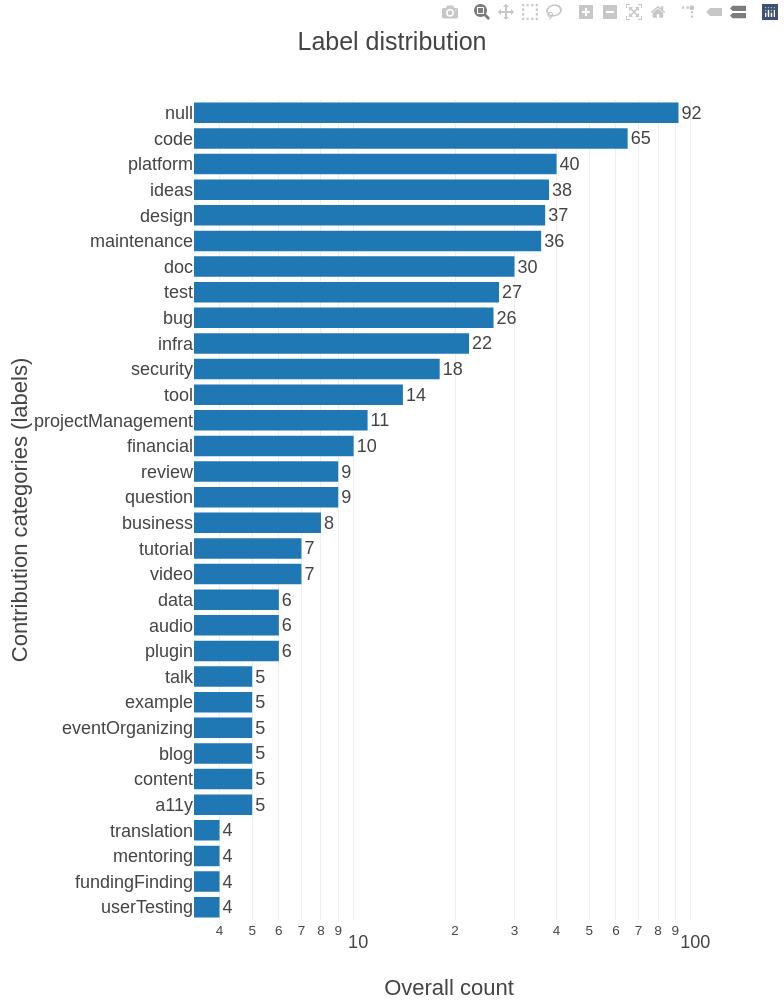
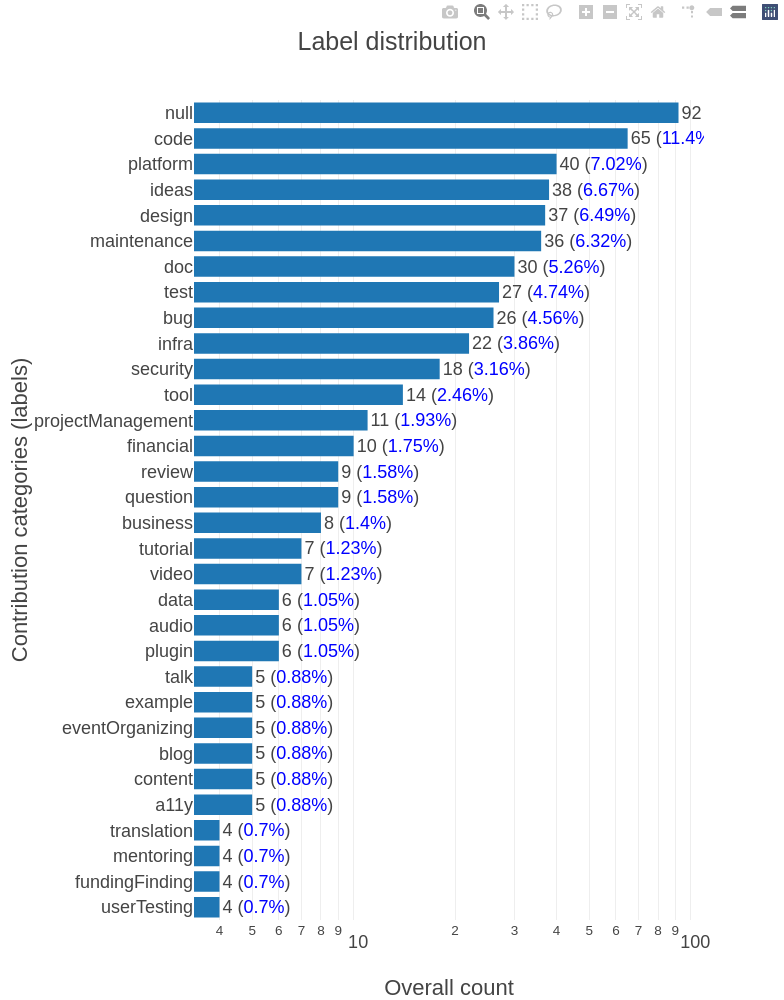
chore(public): more plots

Changed region(s): [[0.3061, 0.155, 0.8265, 0.93], [0.8265, 0.124, 0.8878, 0.155]]

diff --git a/public/plot.js b/public/plot.js
@@ -15,7 +15,9 @@ const labelDistributionPlot = data => {
     x: xVals,
     type: 'bar',
     orientation: 'h',
-    text: xVals.map(String),
+    text: xVals.map(
+      x => `${x} (<span style="color: #00f">${perc(x / data.length)}</span>)`,
+    ),
     textposition: 'outside',
     hoverinfo: 'none',
   }
@@ -42,6 +44,170 @@ const labelDistributionPlot = data => {
   }
 
   Plotly.newPlot('labelDist', vizData, layout, {scrollZoom: true})
+}
+
+const predictionDistributionPlot = data => {
+  const xVals = ['Correct', 'Incorrect']
+  const yVals = [data.correctPredictions, data.incorrectPredictions]
+  const partitionsPlot = {
+    x: xVals,
+    y: yVals,
+    type: 'bar',
+    text: yVals.map(
+      y => `${y} (<span style="color: #00f">${perc(y / data.total)}</span>)`,
+    ),
+    hoverinfo: 'none',
+    textposition: 'auto',
+    marker: {
+      color: 'rgb(158,202,225)',
+      opacity: 0.6,
+      line: {
+        color: 'rgb(8,48,107)',
+        width: 1.5,
+      },
+    },
+  }
+
+  const vizData = [partitionsPlot]
+  const layout = {
+    title: 'Model predictions',
+    autosize: true,
+    font: {
+      size: 18,
+    },
+    yaxis: {
+      title: 'Count',
+      automargin: true,
+    },
+    xaxis: {
+      title: 'Correctness',
+    },
+  }
+
+  Plotly.newPlot('predictions', vizData, layout, {scrollZoom: true})
+}
+
+const accuracyDistributionPlot = data => {
+  const orderedData = Object.entries(data.results).map(entry => [
+    entry[0],
+    entry[1].accuracy,
+  ])
+  orderedData.sort((a, b) => a[1] - b[1])
+  const xVals = orderedData.map(entry => entry[1])
+  const categoryDistPlot = {
+    y: orderedData.map(entry => entry[0]),
+    x: xVals,
+    type: 'bar',
+    orientation: 'h',
+    text: xVals.map(String),
+    textposition: 'outside',
+    hoverinfo: 'none',
+  }
+
+  const vizData = [categoryDistPlot]
+  const layout = {
+    title: 'Model accuracy distribution',
+    autosize: true,
+    font: {
+      size: 18,
+    },
+    height: 1000,
+    yaxis: {
+      title: 'Contribution categories (labels)',
+      automargin: true,
+    },
+    xaxis: {
+      title: 'Accuracy',
+      type: 'linear',
+      automargin: true,
+      tick0: 0,
+      dtick: 0.1,
+    },
+  }
+
+  Plotly.newPlot('accDist', vizData, layout, {scrollZoom: true})
+}
+
+const f1DistributionPlot = data => {
+  const orderedData = Object.entries(data.results).map(entry => [
+    entry[0],
+    entry[1].f1,
+  ])
+  orderedData.sort((a, b) => a[1] - b[1])
+  const xVals = orderedData.map(entry => entry[1])
+  const categoryDistPlot = {
+    y: orderedData.map(entry => entry[0]),
+    x: xVals,
+    type: 'bar',
+    orientation: 'h',
+    text: xVals.map(String),
+    textposition: 'outside',
+    hoverinfo: 'none',
+  }
+
+  const vizData = [categoryDistPlot]
+  const layout = {
+    title: 'Model F1 distribution',
+    autosize: true,
+    font: {
+      size: 18,
+    },
+    height: 1000,
+    yaxis: {
+      title: 'Contribution categories (labels)',
+      automargin: true,
+    },
+    xaxis: {
+      title: 'F1 Score',
+      type: 'linear',
+      automargin: true,
+      tick0: 0,
+      dtick: 0.1,
+    },
+  }
+
+  Plotly.newPlot('f1Dist', vizData, layout, {scrollZoom: true})
+}
+
+const precisionDistributionPlot = data => {
+  const orderedData = Object.entries(data.results).map(entry => [
+    entry[0],
+    entry[1].precision,
+  ])
+  orderedData.sort((a, b) => a[1] - b[1])
+  const xVals = orderedData.map(entry => entry[1])
+  const categoryDistPlot = {
+    y: orderedData.map(entry => entry[0]),
+    x: xVals,
+    type: 'bar',
+    orientation: 'h',
+    text: xVals.map(String),
+    textposition: 'outside',
+    hoverinfo: 'none',
+  }
+
+  const vizData = [categoryDistPlot]
+  const layout = {
+    title: 'Model Precision distribution',
+    autosize: true,
+    font: {
+      size: 18,
+    },
+    height: 1000,
+    yaxis: {
+      title: 'Contribution categories (labels)',
+      automargin: true,
+    },
+    xaxis: {
+      title: 'F1 Score',
+      type: 'linear',
+      automargin: true,
+      tick0: 0,
+      dtick: 0.1,
+    },
+  }
+
+  Plotly.newPlot('prDist', vizData, layout, {scrollZoom: true})
 }
 
 const tvtPartitionsPlot = data => {
@@ -263,10 +429,14 @@ const testedCategories = data => {
 }
 
 const build = async () => {
-  const [data, categoryPartitions] = await loadData()
+  const [data, categoryPartitions, modelStats] = await loadData()
   console.log(data)
   const entries = Object.entries(categoryPartitions)
   labelDistributionPlot(data)
+  predictionDistributionPlot(modelStats)
+  accuracyDistributionPlot(modelStats)
+  f1DistributionPlot(modelStats)
+  precisionDistributionPlot(modelStats)
   tvtPartitionsPlot(entries)
   facettedPartitionPlot(entries)
   trainedCategories(entries)

diff --git a/public/plot.html b/public/plot.html
@@ -10,6 +10,10 @@
     <div id="labelDist"></div>
     <section id="playgroundGraphs">
         <h3>Playground-driven data</h3>
+        <div id="predictions"></div>
+        <div id="accDist"></div>
+        <div id="f1Dist"></div>
+        <div id="prDist"></div>
         <div id="tvtPartitions"></div>
         <div id="partitions"></div>
         <div id="trainingLabelDist"></div>

diff --git a/public/utils.js b/public/utils.js
@@ -8,6 +8,10 @@ const loadData = async () => {
         res => res.json(),
         console.error,
       ),
+      fetch('../playground/playground-fullStats.json').then(
+        res => res.json(),
+        console.error,
+      ),
     ])
 
     return data //[categories, dataset, categoryPartitions]
